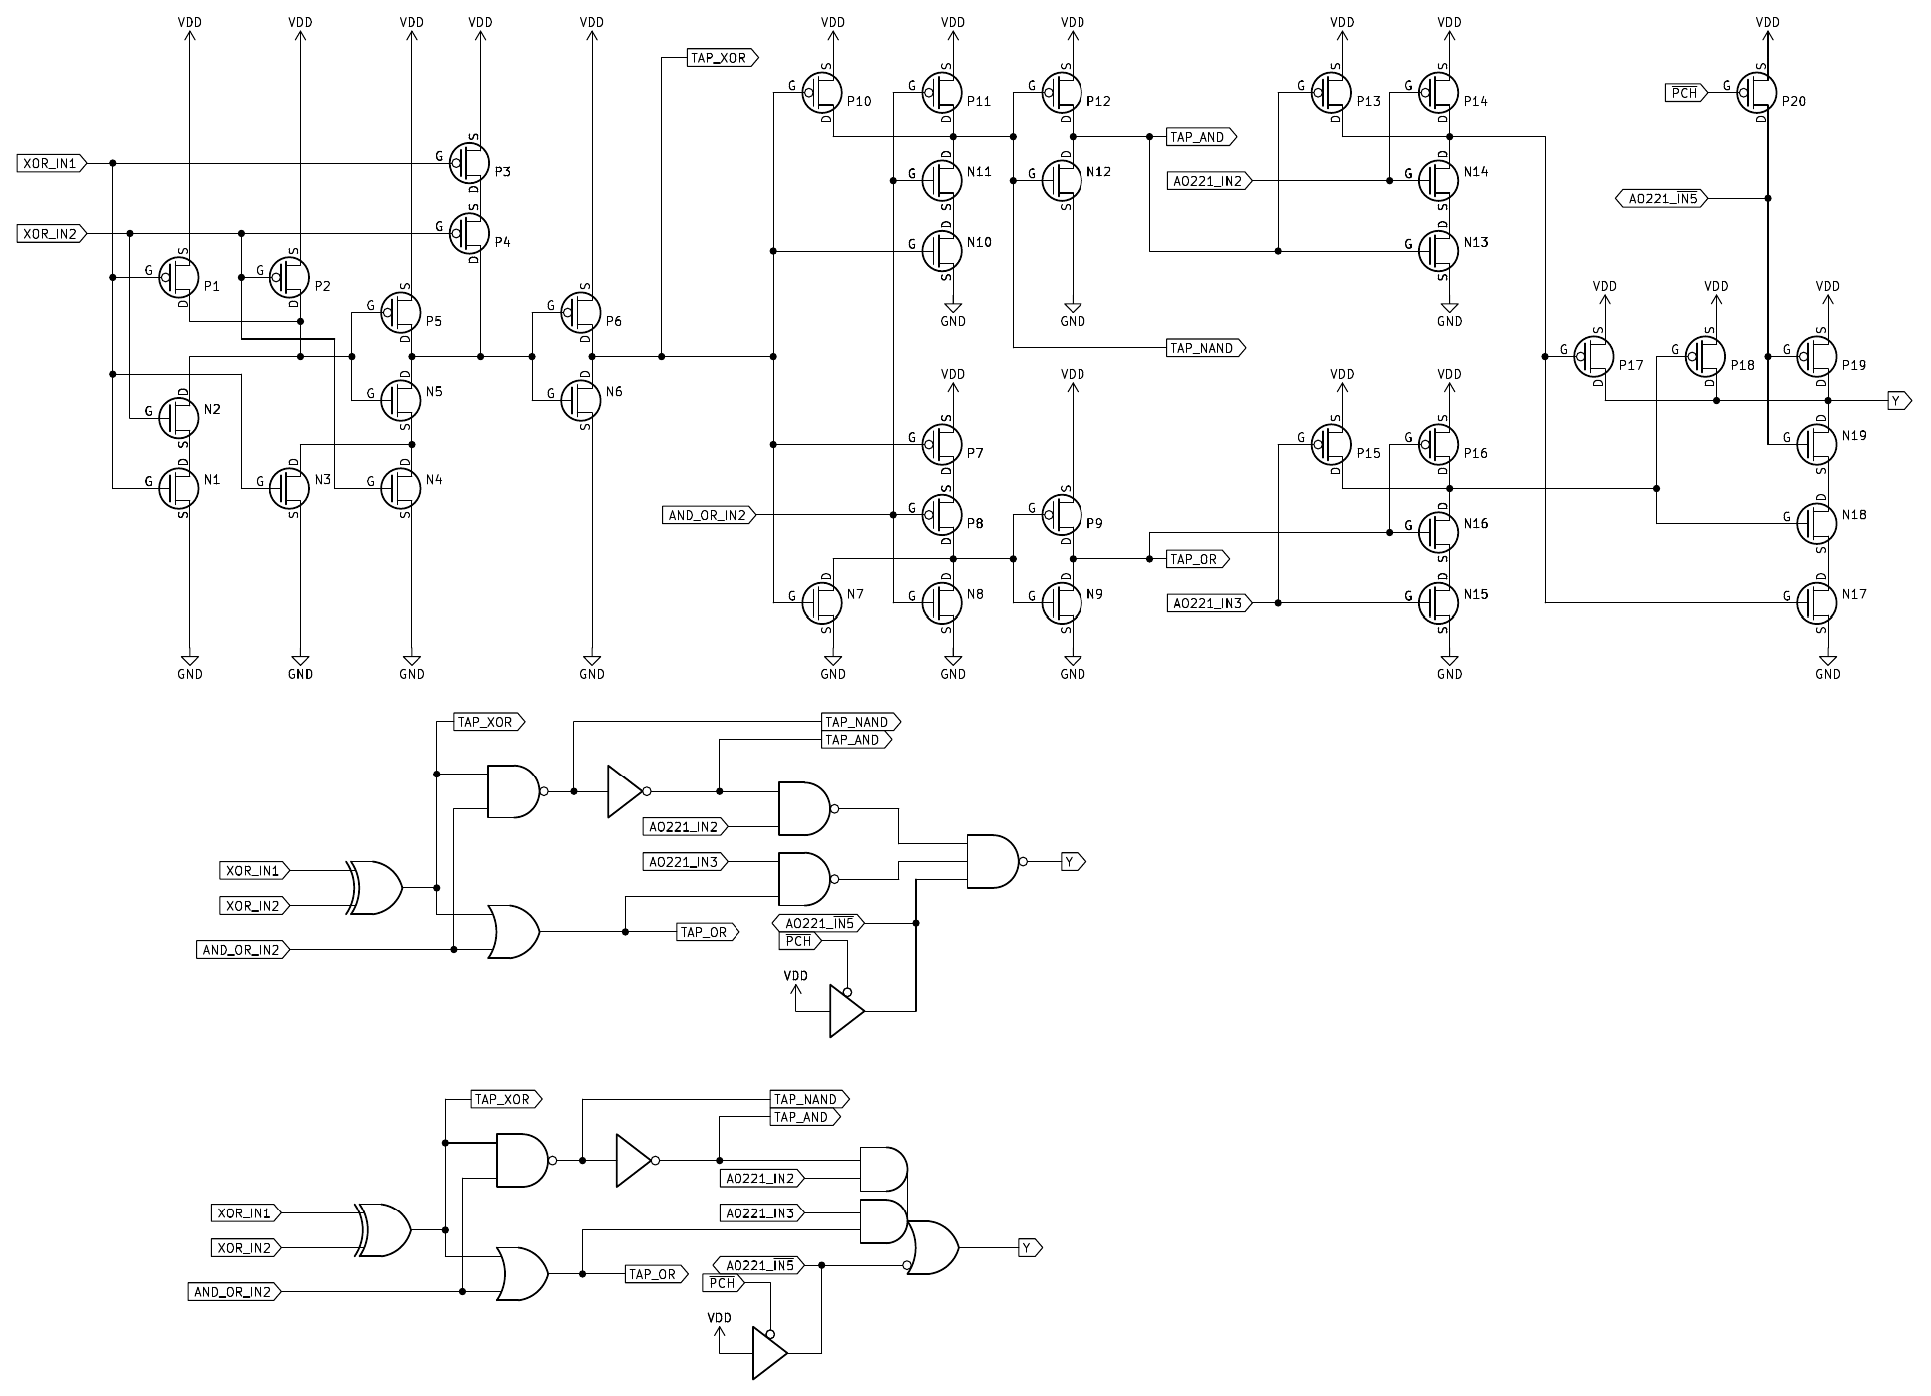
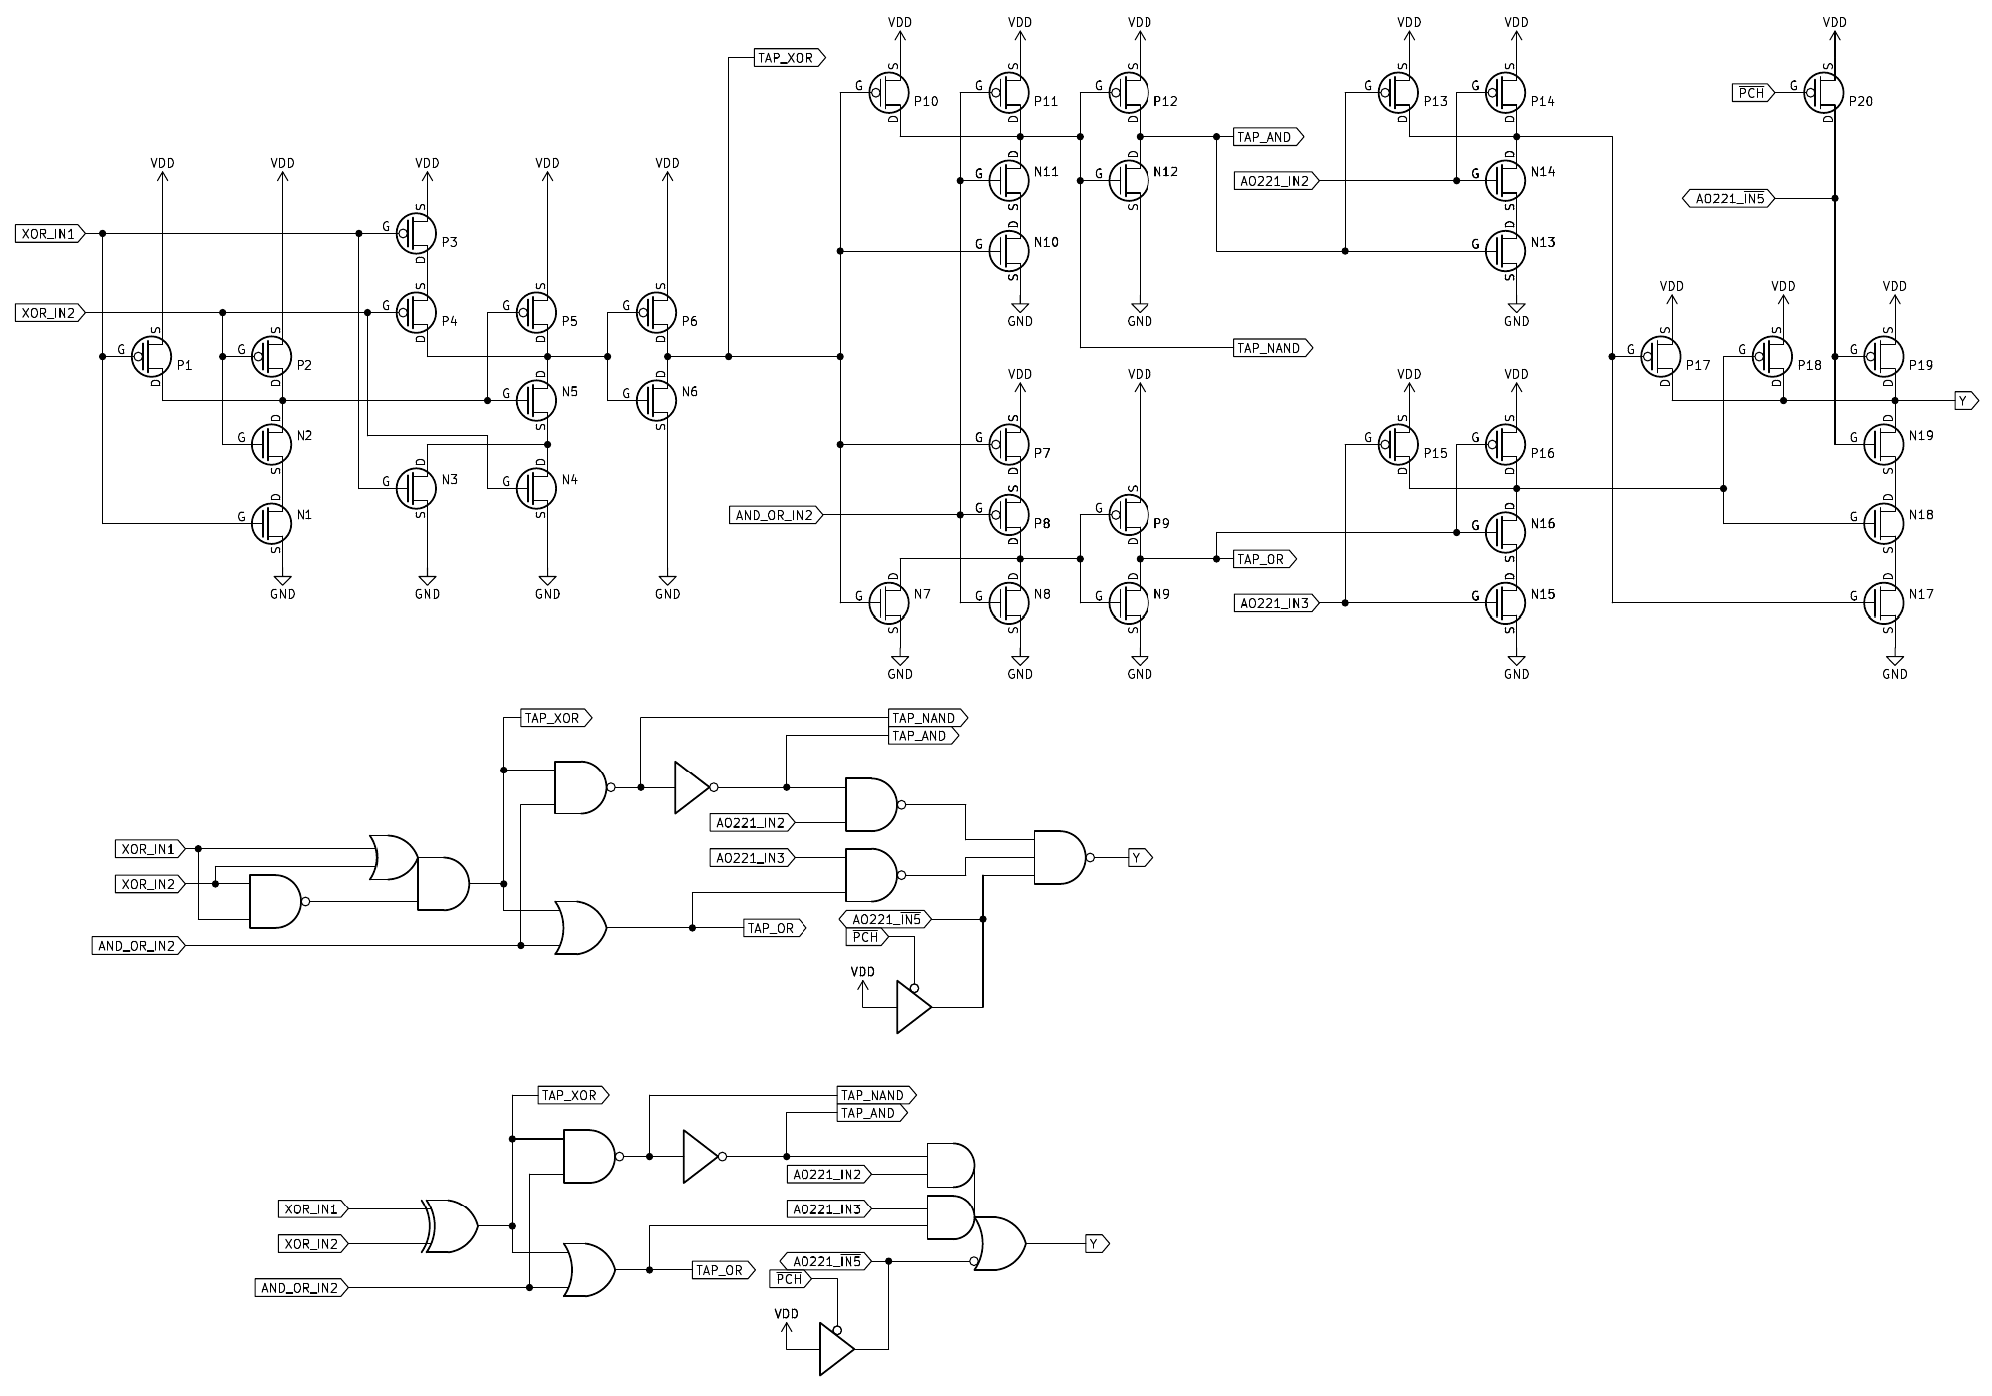
Cleanup schematic of ALU_PGGEN

diff --git a/doc/sm83_cells.html b/doc/sm83_cells.html
@@ -2370,7 +2370,7 @@ signal for carry generation.</td></tr>
 </table></td></tr>
 </table>
 <p><img src="img/cells/sm83/alu_pggen_layout.png?v=0" alt=""></p>
-<p><img src="img/cells/sm83/alu_pggen_sch.png?v=0" alt=""></p>
+<p><img src="img/cells/sm83/alu_pggen_sch.png?v=1" alt=""></p>
 <p>Instances:
 <a href="/sm83_map/?view=c:alu_pggen%5b0%5d">ALU_PGGEN[0]</a>,
 <a href="/sm83_map/?view=c:alu_pggen%5b1%5d">ALU_PGGEN[1]</a>,
